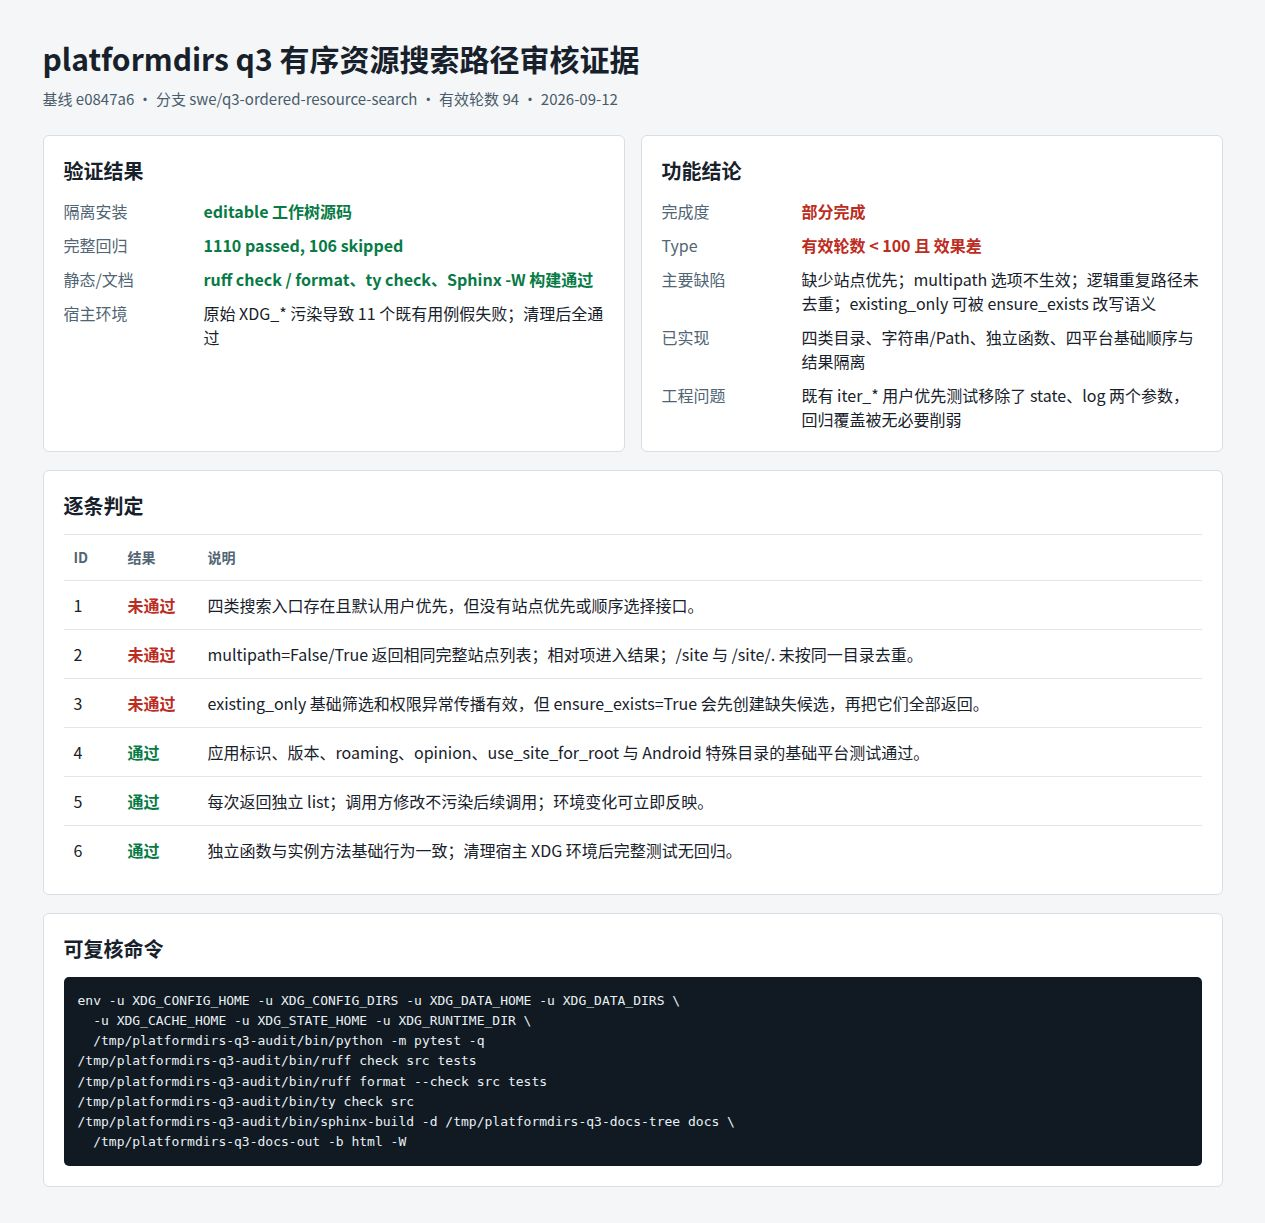
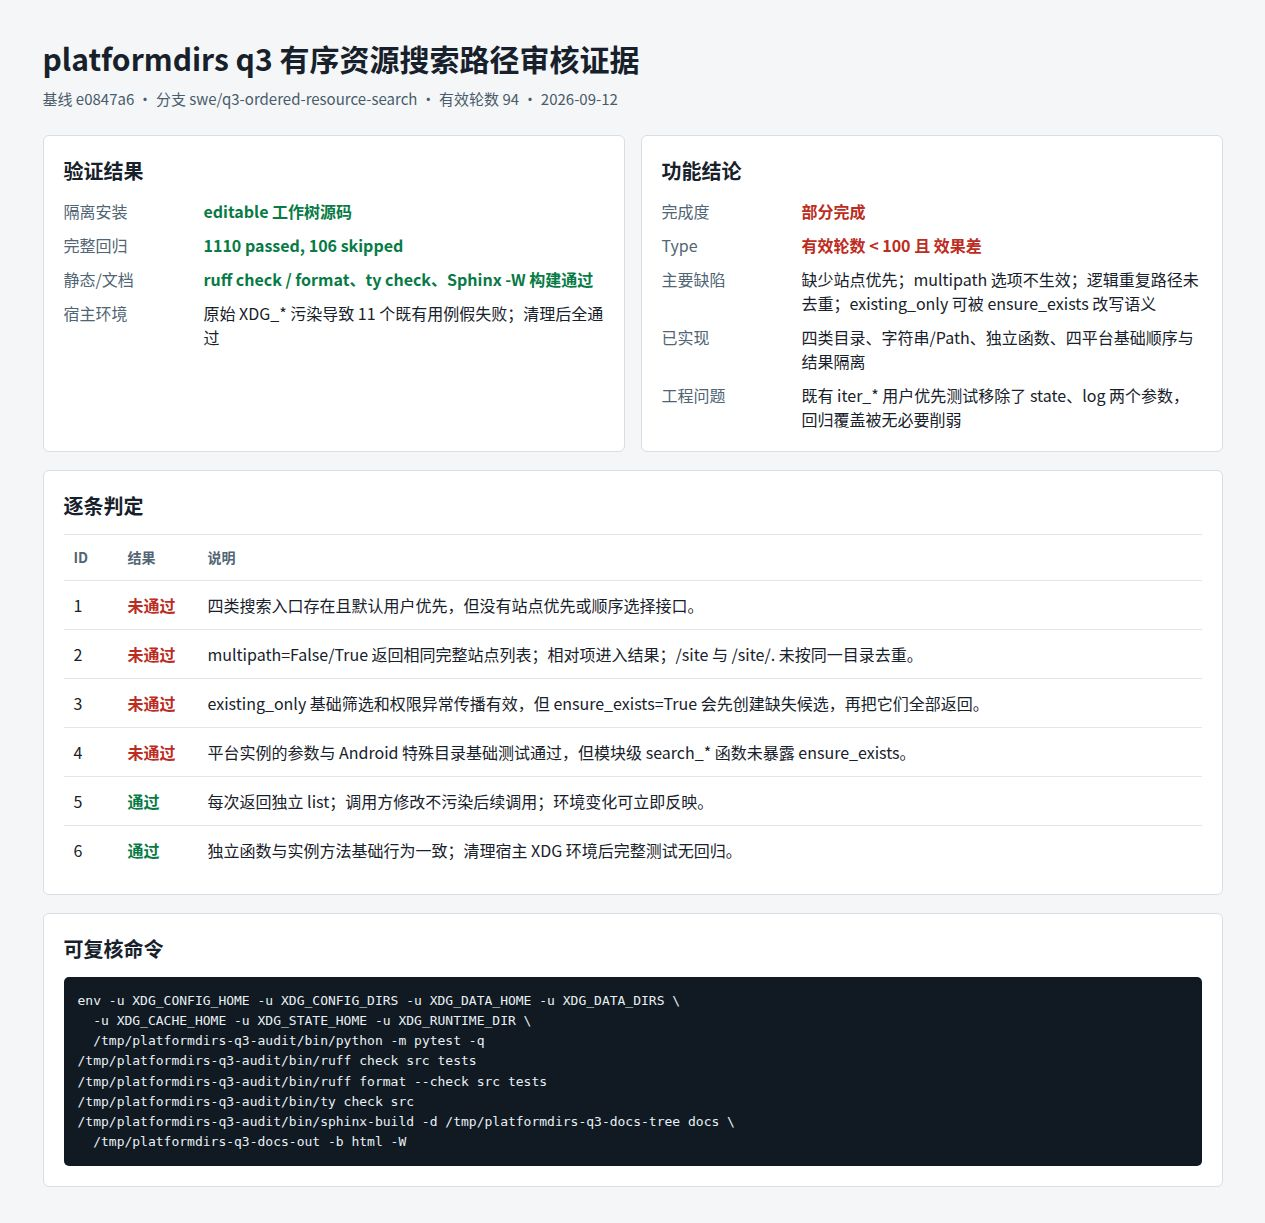
docs: correct q3 audit evidence

Changed region(s): [[0.0925, 0.5904, 0.7399, 0.6214]]

diff --git a/evidence/q3-review-report.html b/evidence/q3-review-report.html
@@ -64,7 +64,7 @@
         <tr><td>1</td><td class="fail">未通过</td><td>四类搜索入口存在且默认用户优先，但没有站点优先或顺序选择接口。</td></tr>
         <tr><td>2</td><td class="fail">未通过</td><td>multipath=False/True 返回相同完整站点列表；相对项进入结果；/site 与 /site/. 未按同一目录去重。</td></tr>
         <tr><td>3</td><td class="fail">未通过</td><td>existing_only 基础筛选和权限异常传播有效，但 ensure_exists=True 会先创建缺失候选，再把它们全部返回。</td></tr>
-        <tr><td>4</td><td class="pass">通过</td><td>应用标识、版本、roaming、opinion、use_site_for_root 与 Android 特殊目录的基础平台测试通过。</td></tr>
+        <tr><td>4</td><td class="fail">未通过</td><td>平台实例的参数与 Android 特殊目录基础测试通过，但模块级 search_* 函数未暴露 ensure_exists。</td></tr>
         <tr><td>5</td><td class="pass">通过</td><td>每次返回独立 list；调用方修改不污染后续调用；环境变化可立即反映。</td></tr>
         <tr><td>6</td><td class="pass">通过</td><td>独立函数与实例方法基础行为一致；清理宿主 XDG 环境后完整测试无回归。</td></tr>
       </tbody>
